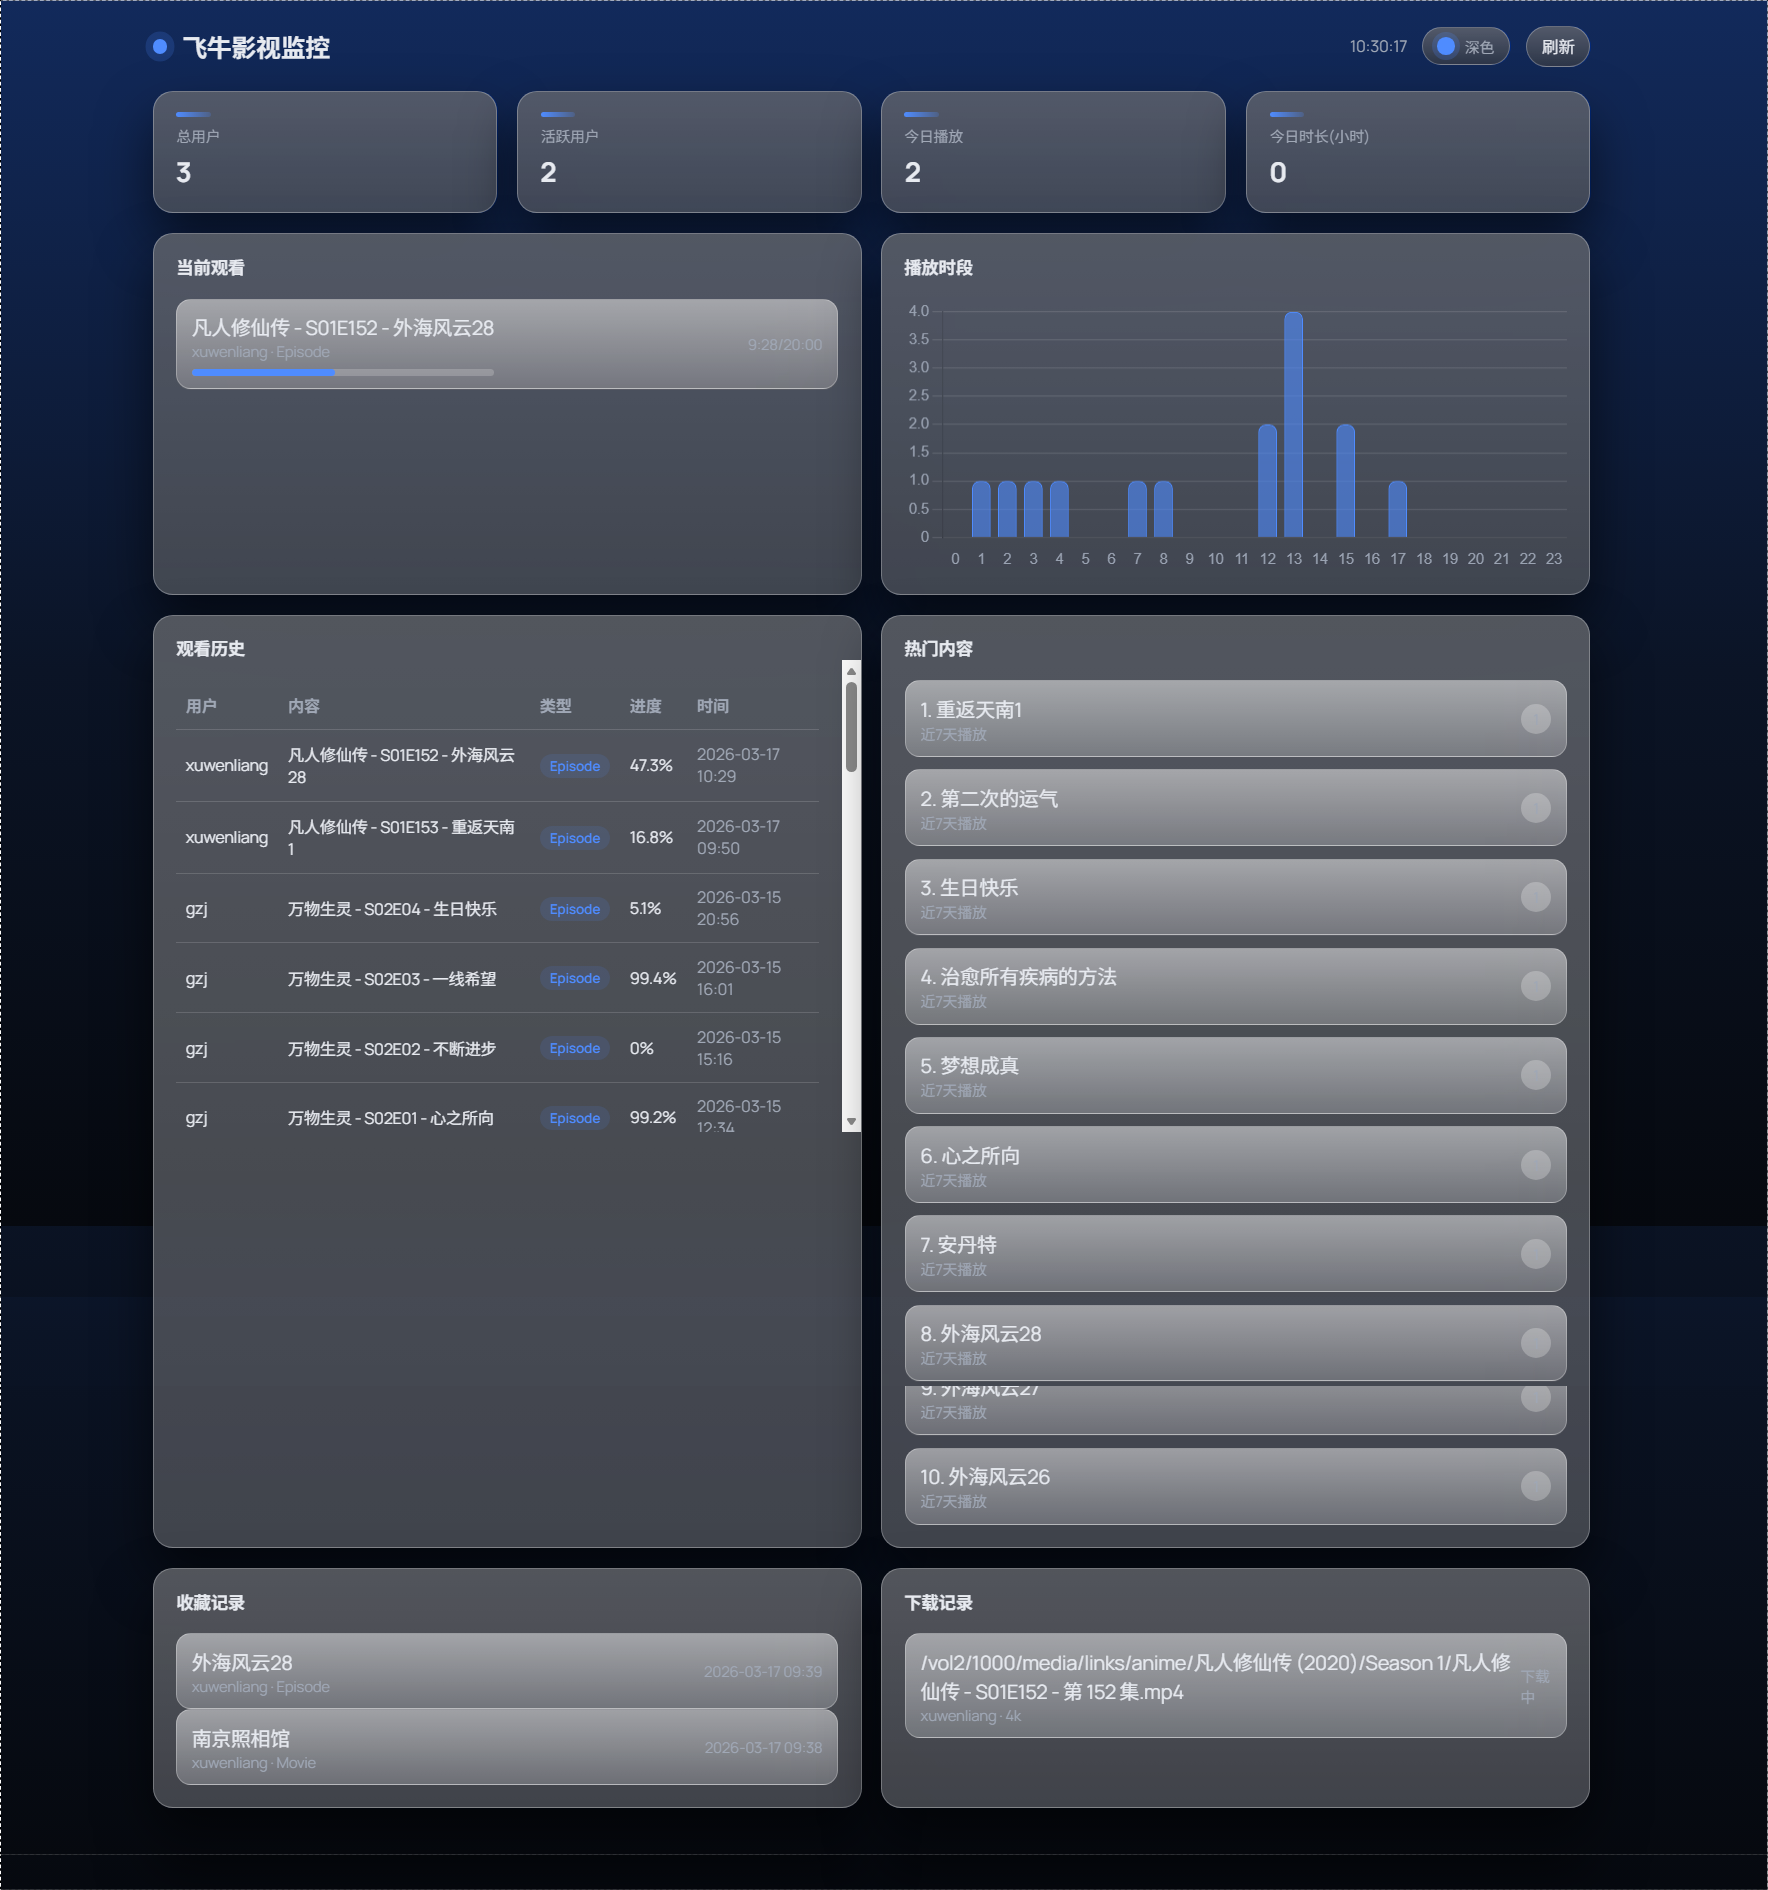
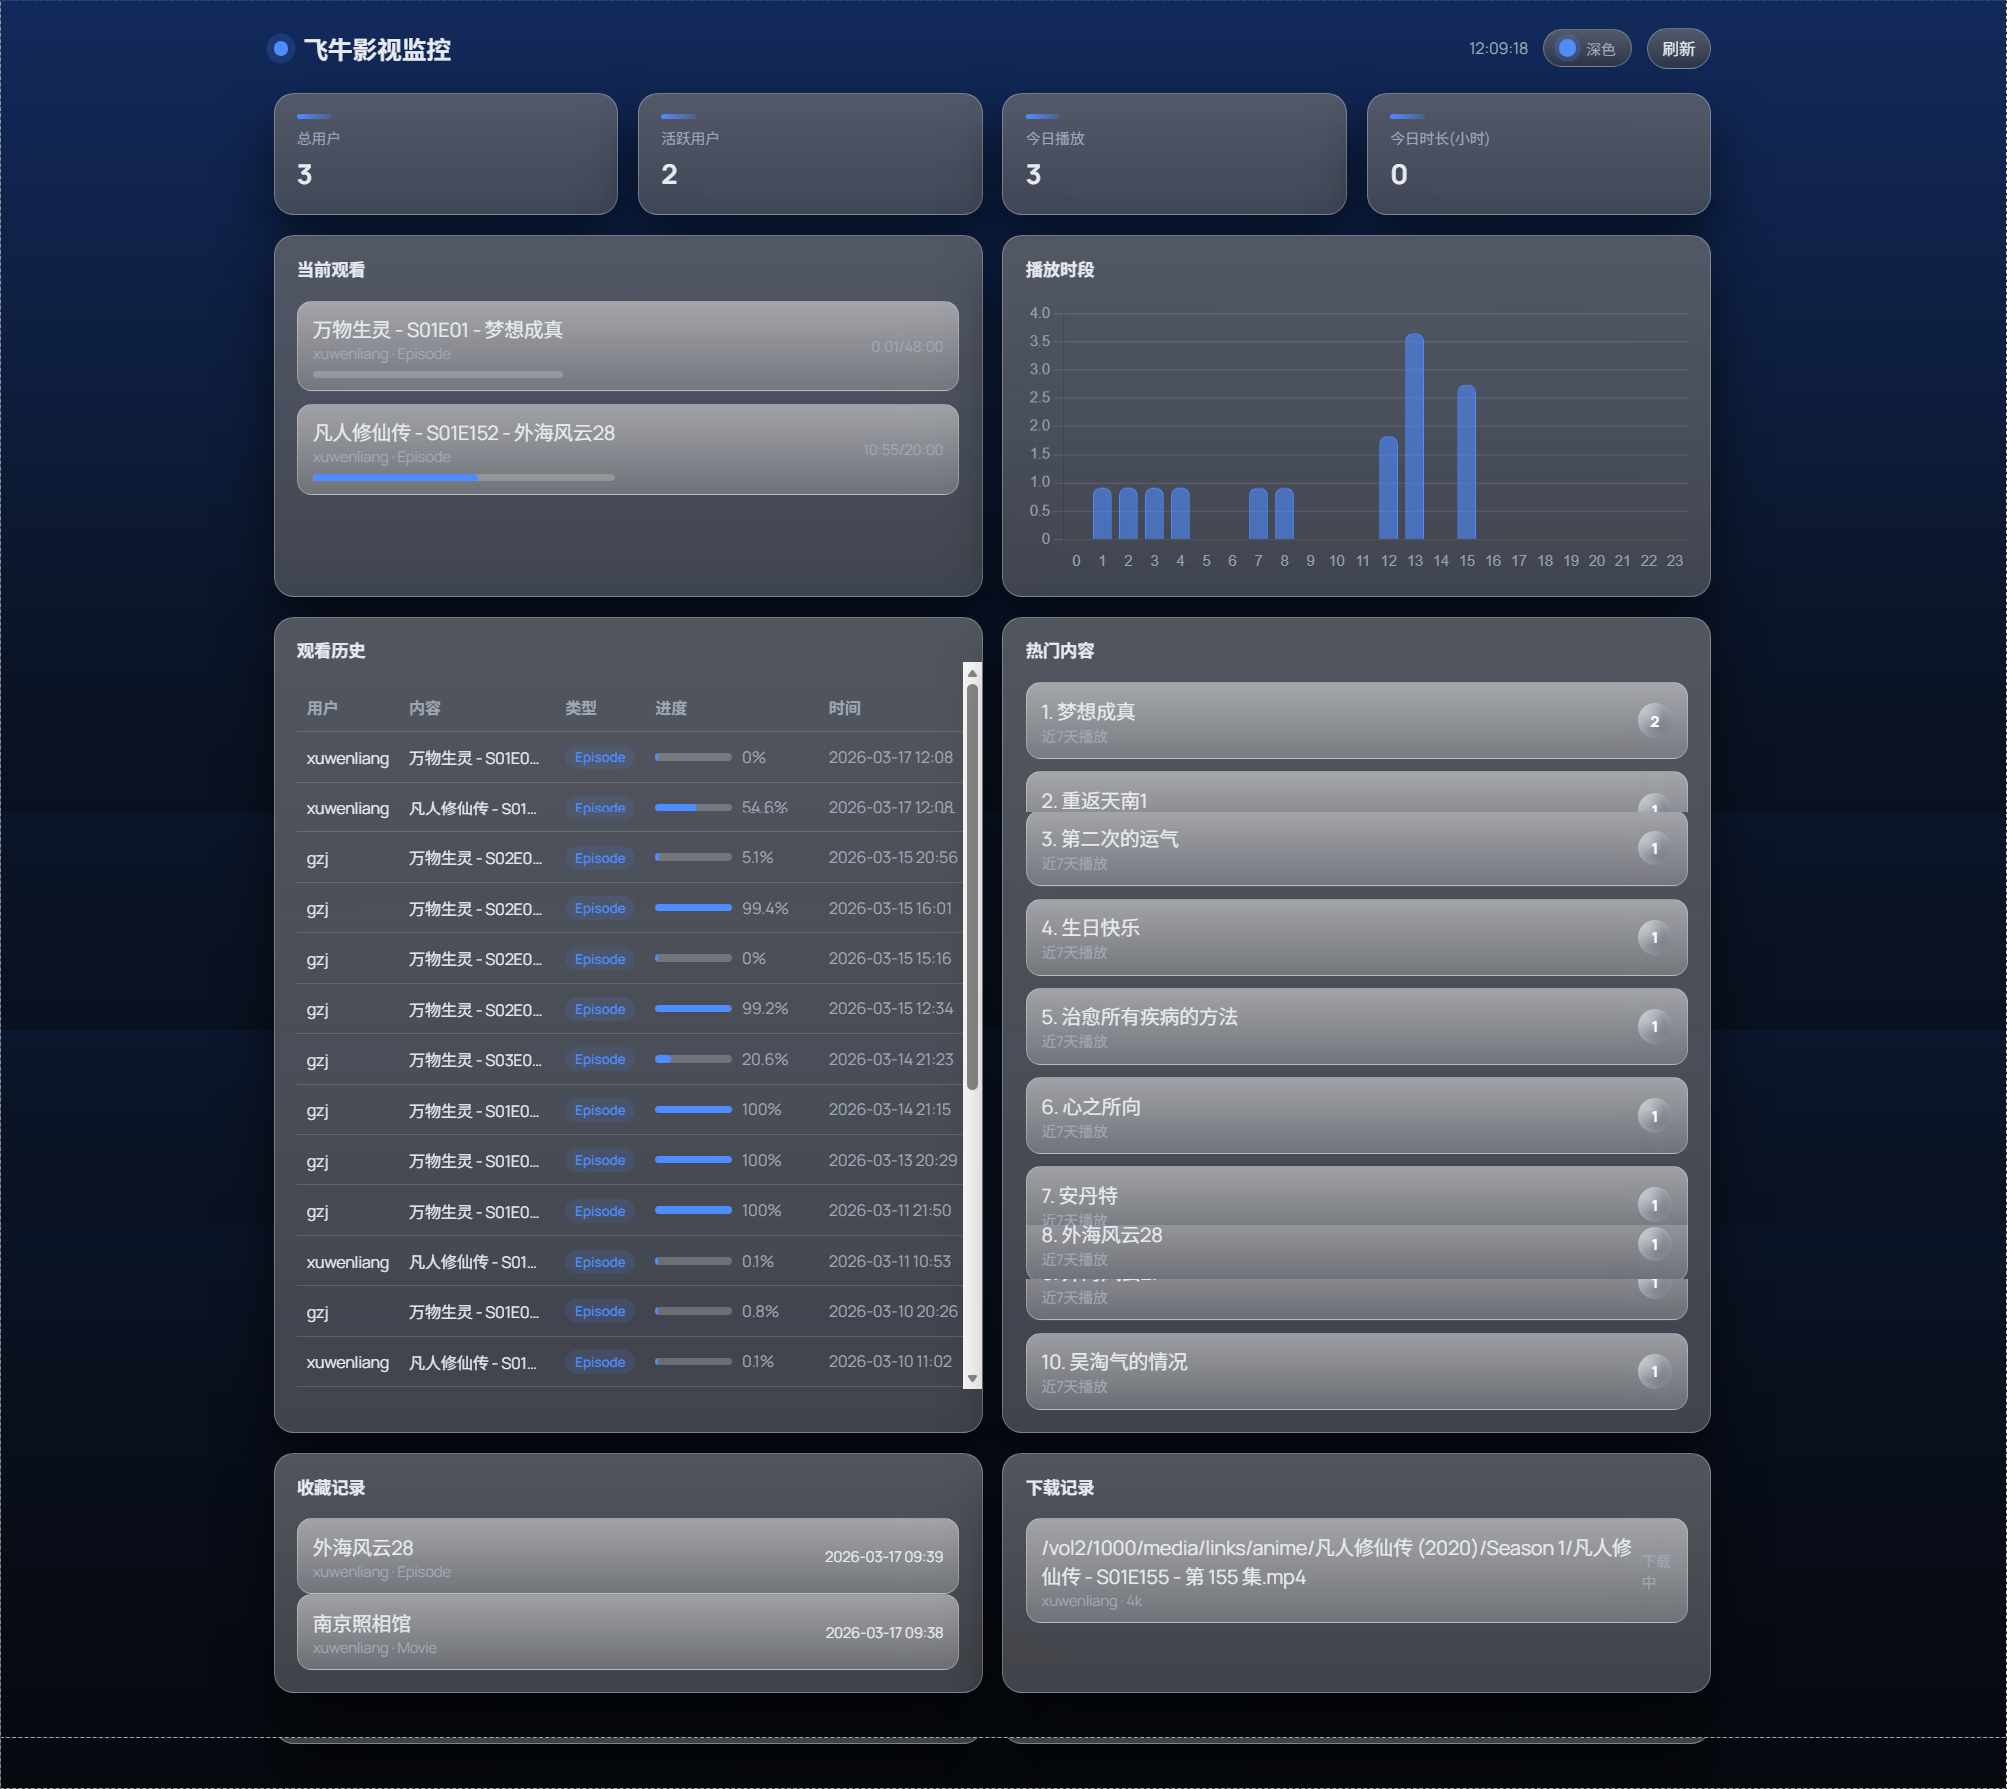
Refine history layout and update previews

diff --git a/templates/index.html b/templates/index.html
@@ -19,6 +19,7 @@
       --glass: rgba(255,255,255,0.55);
       --glass-border: rgba(255,255,255,0.75);
       --glass-highlight: rgba(255,255,255,0.75);
+      --bg-solid: #ffffff;
       --bg-bottom: linear-gradient(180deg, #cfe2ff 0%, #e7f1ff 50%, #ffffff 100%);
     }
     [data-theme="dark"] {
@@ -31,21 +32,24 @@
       --glass: rgba(28,30,36,0.8);
       --glass-border: rgba(255,255,255,0.28);
       --glass-highlight: rgba(255,255,255,0.26);
-  --bg-bottom: linear-gradient(180deg, #122a5c 0%, #0b1426 55%, #06090f 100%);
+      --bg-solid: #06090f;
+      --bg-bottom: linear-gradient(180deg, #122a5c 0%, #0b1426 55%, #06090f 100%);
     }
     * { box-sizing: border-box; }
-    html, body { height: 100%; background: var(--bg-bottom); }
+    html, body { height: 100%; }
     body {
       margin: 0;
       color: var(--ink);
       font-family: "Manrope", "Helvetica Neue", Helvetica, Arial, sans-serif;
       letter-spacing: -0.01em;
+      background: var(--bg-solid);
       min-height: 100dvh;
     }
-    .bg {
+    body::before {
+      content: "";
       position: fixed;
       inset: 0;
-      z-index: -2;
+      z-index: -1;
       pointer-events: none;
       background: var(--bg-bottom);
       background-repeat: no-repeat;
@@ -102,7 +106,7 @@
 
     .grid { display: grid; gap: 16px; }
     .grid-4 { grid-template-columns: repeat(4, minmax(0, 1fr)); }
-    .grid-2 { grid-template-columns: repeat(2, minmax(0, 1fr)); }
+    .grid-2 { grid-template-columns: repeat(2, minmax(0, 1fr)); align-items: stretch; }
 
     .card {
       background: linear-gradient(180deg, var(--glass-highlight), rgba(255,255,255,0.18)), var(--glass);
@@ -113,6 +117,8 @@
       -webkit-backdrop-filter: blur(26px) saturate(175%);
       transition: transform 180ms ease, box-shadow 180ms ease, border-color 180ms ease;
       position: relative;
+      display: flex;
+      flex-direction: column;
     }
     .card:hover {
       transform: translateY(-2px);
@@ -120,7 +126,7 @@
       box-shadow: 0 18px 36px rgba(0,0,0,0.2);
     }
     .card-head { padding: 16px 18px 0; font-weight: 600; font-size: 14px; }
-    .card-body { padding: 16px 18px 18px; }
+    .card-body { padding: 16px 18px 18px; flex: 1; }
 
     .stat { display: flex; flex-direction: column; gap: 6px; }
     .stat::before {
@@ -134,6 +140,27 @@
       display: inline-flex; align-items: center; padding: 4px 10px; border-radius: 999px;
       font-size: 12px; background: rgba(255,255,255,0.25); color: var(--muted);
     }
+    .count-badge {
+      min-width: 28px;
+      height: 28px;
+      padding: 0 8px;
+      border-radius: 999px;
+      display: inline-flex;
+      align-items: center;
+      justify-content: center;
+      font-weight: 700;
+      font-size: 12px;
+      color: #ffffff;
+      background: radial-gradient(circle at 30% 30%, rgba(255,255,255,0.55), rgba(255,255,255,0) 45%),
+                  linear-gradient(135deg, #cfcfcf 0%, #9fa4ad 55%, #7d818a 100%);
+      box-shadow: inset 0 0 8px rgba(255,255,255,0.25);
+    }
+    [data-theme="dark"] .count-badge {
+      background: radial-gradient(circle at 30% 30%, rgba(255,255,255,0.28), rgba(255,255,255,0) 45%),
+                  linear-gradient(135deg, #bfc3c9 0%, #8a9099 55%, #666b74 100%);
+      color: #ffffff;
+    }
+    [data-theme="dark"] .meta.time-strong { color: var(--ink); }
     .list { display: flex; flex-direction: column; gap: 10px; }
     .list-item {
       display: flex; align-items: center; justify-content: space-between;
@@ -149,6 +176,43 @@
     .table-lite { width: 100%; border-collapse: collapse; font-size: 13px; }
     .table-lite th, .table-lite td { padding: 10px 8px; border-bottom: 1px solid rgba(255,255,255,0.15); text-align: left; }
     .table-lite th { color: var(--muted); font-weight: 600; }
+    .title-ellipsis {
+      max-width: 110px;
+      white-space: nowrap;
+      overflow: hidden;
+      text-overflow: ellipsis;
+      display: inline-block;
+      vertical-align: middle;
+    }
+    .user-ellipsis {
+      max-width: 80px;
+      white-space: nowrap;
+      overflow: hidden;
+      text-overflow: ellipsis;
+      display: inline-block;
+      vertical-align: middle;
+    }
+    .time-cell { white-space: nowrap; }
+    .scroll-y {
+      overflow-y: auto;
+      overflow-x: hidden;
+    }
+    .progress-cell { min-width: 140px; }
+    .progress-wrap { display: flex; align-items: center; gap: 8px; }
+    .progress-track {
+      width: 50%;
+      height: 6px;
+      background: rgba(255,255,255,0.22);
+      border-radius: 999px;
+      overflow: hidden;
+    }
+    .progress-track span {
+      display: block;
+      height: 100%;
+      background: var(--accent);
+      border-radius: 999px;
+      min-width: 2px;
+    }
     .tag {
       padding: 2px 8px; border-radius: 999px; font-size: 11px; font-weight: 600;
       background: color-mix(in oklab, var(--accent) 12%, transparent); color: var(--accent);
@@ -164,7 +228,6 @@
   </style>
 </head>
 <body>
-  <div class="bg"></div>
   <div class="app">
     <div class="topbar">
       <div class="brand">
@@ -205,11 +268,11 @@
     <div class="grid grid-2" style="margin-top:16px;">
       <div class="card">
         <div class="card-head">观看历史</div>
-        <div class="card-body" style="overflow:auto; max-height:380px;">
+        <div class="card-body scroll-y" id="historyBodyWrap">
           <table class="table-lite">
             <thead>
               <tr>
-                <th>用户</th><th>内容</th><th>类型</th><th>进度</th><th>时间</th>
+                <th>用户</th><th>内容</th><th>类型</th><th class="progress-cell">进度</th><th>时间</th>
               </tr>
             </thead>
             <tbody id="historyBody"></tbody>
@@ -218,7 +281,7 @@
       </div>
       <div class="card">
         <div class="card-head">热门内容</div>
-        <div class="card-body">
+        <div class="card-body" id="topContentWrap" style="display:flex; flex-direction:column;">
           <div id="topContent" class="list"></div>
           <div class="muted" id="topContentEmpty" style="display:none;">暂无数据</div>
         </div>
@@ -268,7 +331,7 @@
               <div>${i+1}. ${t.title}</div>
               <div class="meta">近7天播放</div>
             </div>
-            <span class="pill">${t.count}</span>
+            <span class="count-badge">${t.count}</span>
           </div>
         `).join('');
         document.getElementById('topContentEmpty').style.display = 'none';
@@ -302,14 +365,20 @@
       const data = await res.json();
       document.getElementById('historyBody').innerHTML = data.map(d=>`
         <tr>
-          <td>${d.user}</td>
-          <td>${d.title}</td>
+          <td><span class="user-ellipsis" title="${d.user}">${d.user}</span></td>
+          <td><span class="title-ellipsis" title="${d.title}">${d.title}</span></td>
           <td><span class="tag">${d.type || '未知'}</span></td>
-          <td>${d.progress || 0}%</td>
-          <td class="muted">${d.end_time || ''}</td>
+          <td class="progress-cell">
+            <div class="progress-wrap">
+              <div class="progress-track"><span style="width:${d.progress||0}%"></span></div>
+              <span class="muted">${d.progress || 0}%</span>
+            </div>
+          </td>
+          <td class="muted time-cell">${d.end_time || ''}</td>
         </tr>
       `).join('') || '<tr><td colspan="5" class="muted">暂无数据</td></tr>';
     }
+
 
     async function loadFavorites() {
       const res = await fetch('/api/favorites');
@@ -324,7 +393,7 @@
             <div>${d.title}</div>
             <div class="meta">${d.user} · ${d.type}</div>
           </div>
-          <div class="meta">${d.add_time || ''}</div>
+          <div class="meta time-strong">${d.add_time || ''}</div>
         </div>
       `).join('');
     }
@@ -351,7 +420,29 @@
       await Promise.all([loadStats(), loadCurrentPlaying(), loadHistory(), loadFavorites(), loadDownloads()]);
       const res = await fetch('/api/hourly');
       initChart(await res.json());
+      syncHistoryHeight();
       document.getElementById('lastUpdate').textContent = new Date().toLocaleTimeString();
+    }
+
+    function syncHistoryHeight() {
+      const topWrap = document.getElementById('topContentWrap');
+      const historyWrap = document.getElementById('historyBodyWrap');
+      const topList = document.getElementById('topContent');
+      if (!topWrap || !historyWrap) return;
+      let target = 0;
+      if (topList) {
+        const firstItem = topList.querySelector('.list-item');
+        if (firstItem) {
+          const itemHeight = firstItem.getBoundingClientRect().height;
+          const listStyle = window.getComputedStyle(topList);
+          const gap = parseFloat(listStyle.gap || '0');
+          target = itemHeight * 10 + gap * 9;
+        }
+      }
+      if (target <= 0) {
+        target = topWrap.getBoundingClientRect().height;
+      }
+      if (target > 0) historyWrap.style.maxHeight = `${Math.round(target)}px`;
     }
 
     function applyTheme(theme) {
@@ -371,6 +462,7 @@
       });
       refreshAll();
       setInterval(refreshAll, 30000);
+      window.addEventListener('resize', syncHistoryHeight);
     });
   </script>
 </body>
